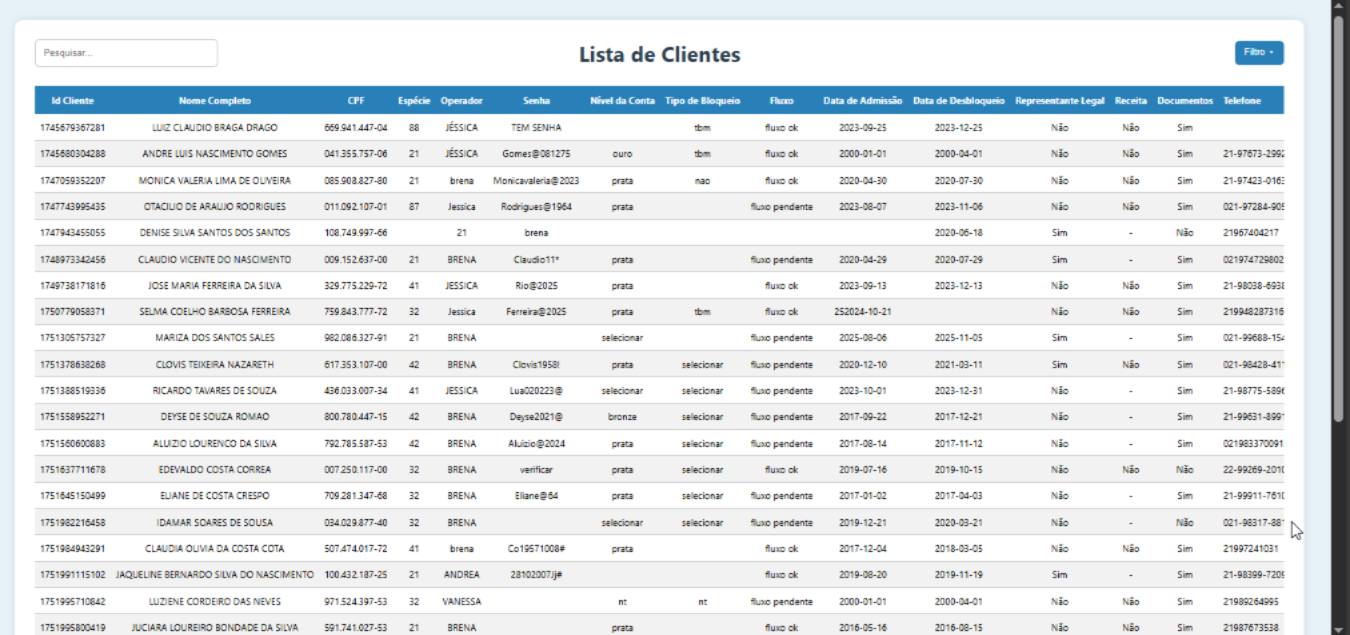
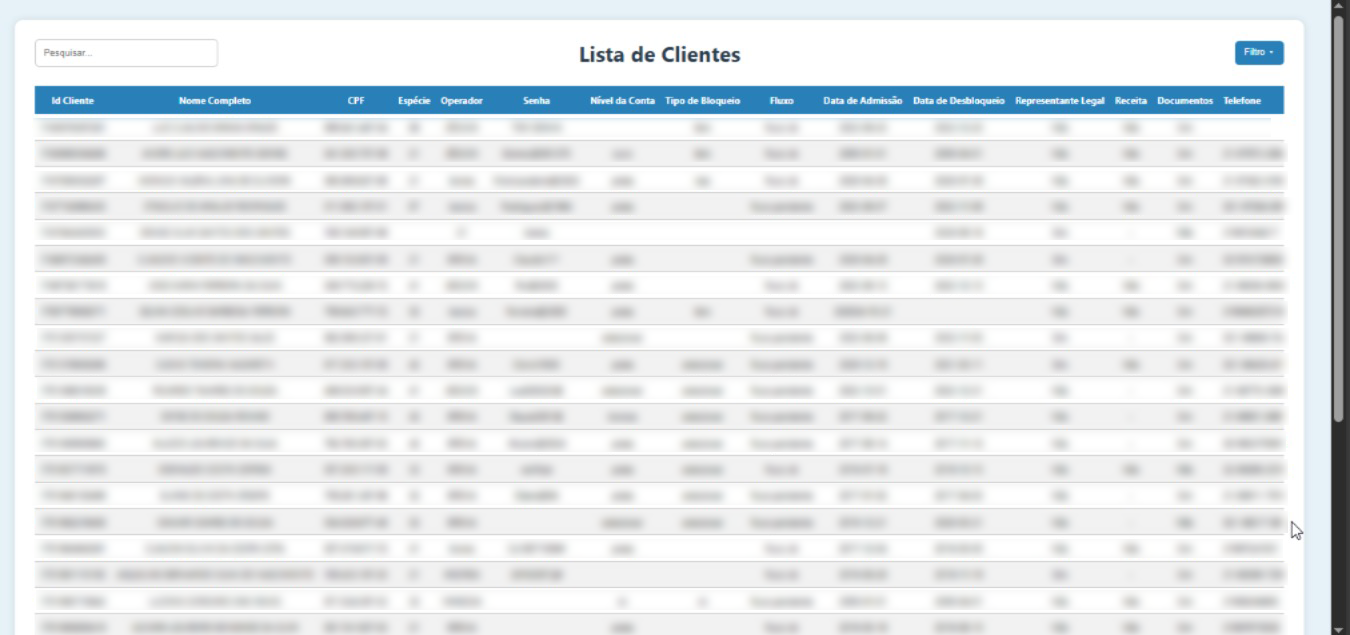
Alterando imagem

diff --git a/index.html b/index.html
@@ -369,7 +369,7 @@
     <div class="project-lado">
       <div class="project-esquerda">
         <h3>Projeto Reativa</h3>
-        <img src="img/Filtro33.png" alt="Automação Python"/>
+        <img src="img/Filtro3.png" alt="Automação Python"/>
         <p>O principal objetivo deste projeto foi identificar e reativar clientes com alto potencial dentro da nossa base de dados, visando aumentar a produtividade e conversão em operações de crédito.</p>
         <button class="vejamais" data-card="card5">Veja mais</button>
       </div>
@@ -381,7 +381,7 @@
         <h3>Projeto Reativa</h3>
         <img style="max-width: 80%;" class="imagem-expandidaRea" src="img/Filtro1.png" alt="Imagem 1"/>
         <img style="max-width: 80%;" class="imagem-expandidaRea" src="img/Filtro2.png" alt="Imagem 2"/>
-        <img style="max-width: 80%;" class="imagem-expandidaRea" src="img/Filtro33.png" alt="Imagem 3"/>
+        <img style="max-width: 80%;" class="imagem-expandidaRea" src="img/Filtro3.png" alt="Imagem 3"/>
         <p style="text-align: left;">O principal objetivo deste projeto foi identificar e reativar clientes com alto potencial dentro da nossa base de dados, visando aumentar a produtividade e conversão em operações de crédito.</p>
         <p style="text-align: left;">Trabalhamos com uma base de aproximadamente 30 mil clientes cadastrados, a maioria composta por clientes antigos que realizavam empréstimos e portabilidades com frequência. Ao exportar esses dados para uma planilha, desenvolvi uma aplicação que permitia importar e cadastrar todos os clientes de uma só vez, exibindo-os em tela no formato de uma planilha interativa, que funcionava como um espelho do banco de dados utilizado.</p>
         <p style="text-align: left;">Com a implementação de filtros por tempo de inatividade (1 a 12 meses), foi possível identificar quais clientes estavam há mais tempo sem realizar novos empréstimos. Após aplicar os filtros, o sistema permitia a exportação dos dados desses clientes inativos para uma nova planilha, que então era integrada à discadora automática.</p>
